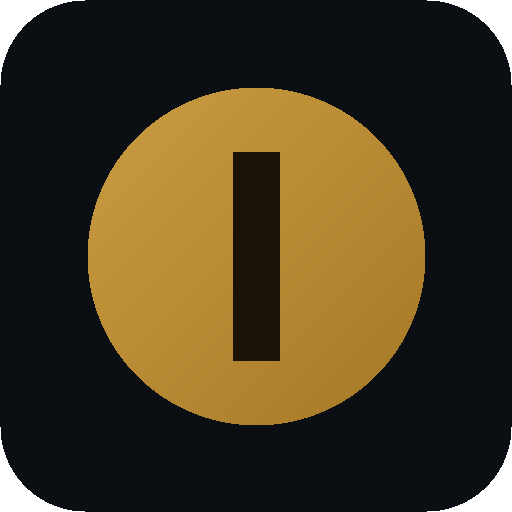
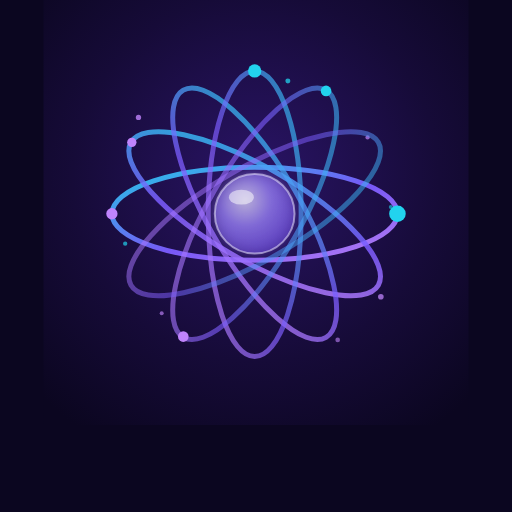
Marca Mess: la app pasa a llamarse Mess · Caja Diaria
Unifica la identidad con el sistema de gestión, que ya usa la marca Mess.

- manifest: name 'Mess · Caja Diaria', short_name 'Mess Caja' (el que se ve
  bajo el ícono), y los colores pasan al oscuro de la marca (#0A0D14) en vez
  del blanco.
- Íconos 192 y 512: la moneda dorada pasa a ser la galaxia de Mess.
- Títulos y nombre de la app en avisos, instalación y asunto de los respaldos.
- Los encabezados con el logo muestran 'Mess'; en la app, 'Caja Diaria' queda
  como bajada, que es lo que el módulo hace.
- logo.svg: sólo la etiqueta interna (el dibujo ya era el de Mess).

El manifest declaraba cada ícono dos veces, separando 'any' y 'maskable'. Como
el ícono nuevo ya trae fondo propio y margen de seguridad, queda una entrada
por tamaño con 'any maskable'.

sw.js: caché a v61, si no los dispositivos siguen con el ícono y el manifest
viejos.

Verificado: los scripts de index.html y app.html parsean sin errores, el
manifest es JSON válido y el logo conserva su animación.

diff --git a/app.html b/app.html
@@ -3,13 +3,13 @@
 <head>
 <meta charset="UTF-8">
 <meta name="viewport" content="width=device-width, initial-scale=1.0">
-<title>Control de Caja Diario · Movimientos</title>
+<title>Mess · Caja Diaria</title>
 <link rel="manifest" href="manifest.json">
 <meta name="theme-color" content="#ffffff">
 <meta name="mobile-web-app-capable" content="yes">
 <meta name="apple-mobile-web-app-capable" content="yes">
 <meta name="apple-mobile-web-app-status-bar-style" content="default">
-<meta name="apple-mobile-web-app-title" content="Caja Diaria">
+<meta name="apple-mobile-web-app-title" content="Mess Caja">
 <link rel="icon" href="icon-192.png">
 <link rel="apple-touch-icon" href="icon-192.png">
 <link rel="preconnect" href="https://fonts.googleapis.com">
@@ -521,7 +521,7 @@ tbody tr:hover{background:var(--panel2)}
   <aside class="side" id="side">
     <a class="brand" href="./" title="Volver a la portada" style="text-decoration:none;color:inherit">
       <div class="mark" aria-hidden="true" title="Fajos de billetes de US$100"></div>
-      <div><h1>Caja Diaria</h1><span>Control · Tesorería</span></div>
+      <div><h1>Mess</h1><span>Caja Diaria · Tesorería</span></div>
     </a>
     <div class="nav-label">Empresa / Proyecto</div>
     <div class="ctxsel-wrap">
@@ -1950,7 +1950,7 @@ async function biometricAvailable(){
 async function tryBiometricUnlock(){
   try{
     const NB=window.Capacitor.Plugins.NativeBiometric;
-    await NB.verifyIdentity({reason:'Ver créditos a cobrar',title:'Caja Diaria',subtitle:'Confirmá tu identidad para ver el detalle de créditos'});
+    await NB.verifyIdentity({reason:'Ver créditos a cobrar',title:'Mess Caja',subtitle:'Confirmá tu identidad para ver el detalle de créditos'});
     return true; // verifyIdentity rechaza la promesa si falla, cancela o no hay huella reconocida
   }catch(e){return false}
 }
@@ -2742,7 +2742,7 @@ function sendBackupViaEmailJS(email,payloadStr,fname,today){
     ejs.init({publicKey:c.pub});
     return ejs.send(c.svc,c.tpl,{
       to_email:email,
-      subject:'Respaldo diario · Caja Diaria · '+today,
+      subject:'Respaldo diario · Mess Caja · '+today,
       message:'Respaldo automático del '+today+'. Adjunto: '+fname+' — se puede volver a cargar en la app con Respaldo → Importar.',
       backup_name:fname,
       backup_file:b64utf8(payloadStr)
@@ -2755,13 +2755,13 @@ function backupUrl(){return (localStorage.getItem(BACKUP_URL_KEY)||'').trim()}
 function backupMethod(){return localStorage.getItem(BACKUP_METHOD_KEY)||(backupUrl()?'google':(emailjsReady()?'emailjs':'draft'))}
 function sendViaAppsScript(url,email,payloadStr,fname,today){
   return fetch(url,{method:'POST',mode:'no-cors',headers:{'Content-Type':'text/plain;charset=utf-8'},
-    body:JSON.stringify({to:email,subject:'Respaldo diario · Caja Diaria · '+today,filename:fname,content:payloadStr,
+    body:JSON.stringify({to:email,subject:'Respaldo diario · Mess Caja · '+today,filename:fname,content:payloadStr,
       message:'Respaldo automático del '+today+'. Adjunto '+fname+' — se vuelve a cargar en la app con Respaldo → Importar.'})});
 }
 function draftFallback(email,payloadStr,fname,today,reason){
   dl(fname,payloadStr,'application/json');
   setTimeout(()=>{
-    const subject=encodeURIComponent('Respaldo diario · Caja Diaria · '+today);
+    const subject=encodeURIComponent('Respaldo diario · Mess Caja · '+today);
     const body=encodeURIComponent((reason?('('+reason+') '):'')+'Se descargó el archivo "'+fname+'" en este dispositivo — adjuntalo a este correo antes de enviarlo.\n\nEmpresas / proyectos:\n'+contexts.map(c=>'• '+ctxLabel(c)).join('\n'));
     window.location.href='mailto:'+encodeURIComponent(email)+'?subject='+subject+'&body='+body;
   },500);
@@ -2845,7 +2845,7 @@ function appsScriptCode(email){
     '  if (!json) throw new Error("No se encontró backupJson en el documento de la nube.");',
     '',
     '  var today = new Date().toISOString().slice(0,10);',
-    '  GmailApp.sendEmail(BACKUP_EMAIL, "Respaldo diario · Caja Diaria · " + today,',
+    '  GmailApp.sendEmail(BACKUP_EMAIL, "Respaldo diario · Mess Caja · " + today,',
     '    "Respaldo automático (servidor) del " + today + ". Adjunto: respaldo_completo_" + today + ".json — se puede volver a cargar en la app con Respaldo → Importar.",',
     '    {attachments:[Utilities.newBlob(json, "application/json", "respaldo_completo_"+today+".json")]}',
     '  );',
@@ -2968,18 +2968,18 @@ installBtn.onclick=async()=>{
   // iPhone/iPad: Safari no tiene instalador programático — mostramos la guía.
   document.getElementById('modal').innerHTML=`
     <div class="mtop"><div class="dd">${ic('phone',24)}</div>
-      <div><h3>Instalá Caja Diaria en tu iPhone</h3><div class="msub">Queda como una app, gratis, sin pasar por la App Store.</div></div>
+      <div><h3>Instalá Mess Caja en tu iPhone</h3><div class="msub">Queda como una app, gratis, sin pasar por la App Store.</div></div>
       <div style="margin-left:auto"><button class="mclose" onclick="closeModal()">✕</button></div></div>
     <div class="mbody2">
       <ol style="margin:4px 0 0 18px;font-size:15px;line-height:1.9;color:var(--ink)">
         <li>Tocá el botón <b>Compartir</b> (el cuadradito con la flecha ↑, abajo en Safari).</li>
         <li>Deslizá y elegí <b>“Agregar a inicio”</b>.</li>
-        <li>Tocá <b>Agregar</b> arriba a la derecha. Listo: te queda el ícono de Caja Diaria en la pantalla.</li>
+        <li>Tocá <b>Agregar</b> arriba a la derecha. Listo: te queda el ícono de Mess Caja en la pantalla.</li>
       </ol>
     </div>`;
   document.getElementById('overlay').classList.add('on');document.body.style.overflow='hidden';
 };
-window.addEventListener('appinstalled',()=>{installBtn.style.display='none';deferredInstall=null;toast('Caja Diaria instalada')});
+window.addEventListener('appinstalled',()=>{installBtn.style.display='none';deferredInstall=null;toast('Mess Caja instalada')});
 if(_isIOS&&!_standalone){installBtn.style.display='inline-flex';installBtn.textContent='⇩ Instalar en iPhone'}
 if('serviceWorker' in navigator){
   window.addEventListener('load',()=>{navigator.serviceWorker.register('sw.js',{updateViaCache:'none'}).catch(()=>{})});
@@ -3253,7 +3253,7 @@ async function scheduleArqueoNotif(){
     const hour=notifHour(),now=new Date();
     let at=new Date(now.getFullYear(),now.getMonth(),now.getDate(),hour,0,0,0);
     if(at<=now)at.setDate(at.getDate()+1);
-    await LN.schedule({notifications:[{id:ARQUEO_NOTIF_ID,title:'Caja Diaria',body:'Todavía no cargaste el cierre de hoy en '+ctxLabel(activeContext())+' · '+CUR+'.',schedule:{at}}]});
+    await LN.schedule({notifications:[{id:ARQUEO_NOTIF_ID,title:'Mess Caja',body:'Todavía no cargaste el cierre de hoy en '+ctxLabel(activeContext())+' · '+CUR+'.',schedule:{at}}]});
   }catch(e){/* plugin no disponible o falló el bridge nativo: no rompemos el resto de la app */}
 }
 function openNotifSettings(){

diff --git a/index.html b/index.html
@@ -3,7 +3,7 @@
 <head>
 <meta charset="UTF-8">
 <meta name="viewport" content="width=device-width, initial-scale=1.0">
-<title>Caja Diaria · Control de caja para tu comercio</title>
+<title>Mess · Caja Diaria</title>
 <meta name="description" content="Registrá ingresos y egresos, mirá el saldo en vivo y llevá el control de tu caja diaria. Sincronizada en todos tus dispositivos.">
 <meta name="theme-color" content="#0A0D14">
 <link rel="manifest" href="manifest.json">
@@ -11,7 +11,7 @@
 <link rel="apple-touch-icon" href="icon-192.png">
 <meta name="mobile-web-app-capable" content="yes">
 <meta name="apple-mobile-web-app-capable" content="yes">
-<meta name="apple-mobile-web-app-title" content="Caja Diaria">
+<meta name="apple-mobile-web-app-title" content="Mess Caja">
 <link rel="preconnect" href="https://fonts.googleapis.com">
 <link rel="preconnect" href="https://fonts.gstatic.com" crossorigin>
 <link href="https://fonts.googleapis.com/css2?family=Fraunces:opsz,wght@9..144,400;9..144,500;9..144,600&family=Inter:wght@400;500;600;700&family=Roboto+Mono:wght@500;600&display=swap" rel="stylesheet">
@@ -135,7 +135,7 @@
   <header class="top">
     <div class="wrap row">
       <a class="brand" href="./">
-        <span class="mk" aria-hidden="true"><img src="logo.svg" alt=""></span> Caja Diaria
+        <span class="mk" aria-hidden="true"><img src="logo.svg" alt=""></span> Mess
       </a>
       <nav class="topnav">
         <a class="lnk" href="#funciones">Funciones</a>
@@ -231,7 +231,7 @@
 
   <footer class="foot">
     <div class="wrap row">
-      <div class="brand" style="font-size:16px"><span class="mk" style="width:28px;height:28px" aria-hidden="true"><img src="logo.svg" alt=""></span> Caja Diaria</div>
+      <div class="brand" style="font-size:16px"><span class="mk" style="width:28px;height:28px" aria-hidden="true"><img src="logo.svg" alt=""></span> Mess</div>
       <div class="lks">
         <a href="#funciones">Funciones</a>
         <a href="#como">Cómo funciona</a>

diff --git a/sw.js b/sw.js
@@ -1,4 +1,4 @@
-const CACHE = 'caja-diaria-v60';
+const CACHE = 'caja-diaria-v61';
 const ASSETS = ['./', './index.html', './app.html', './manifest.json', './icon-192.png', './icon-512.png', './biletes.avif', './logo.svg'];
 
 self.addEventListener('install', e => {
